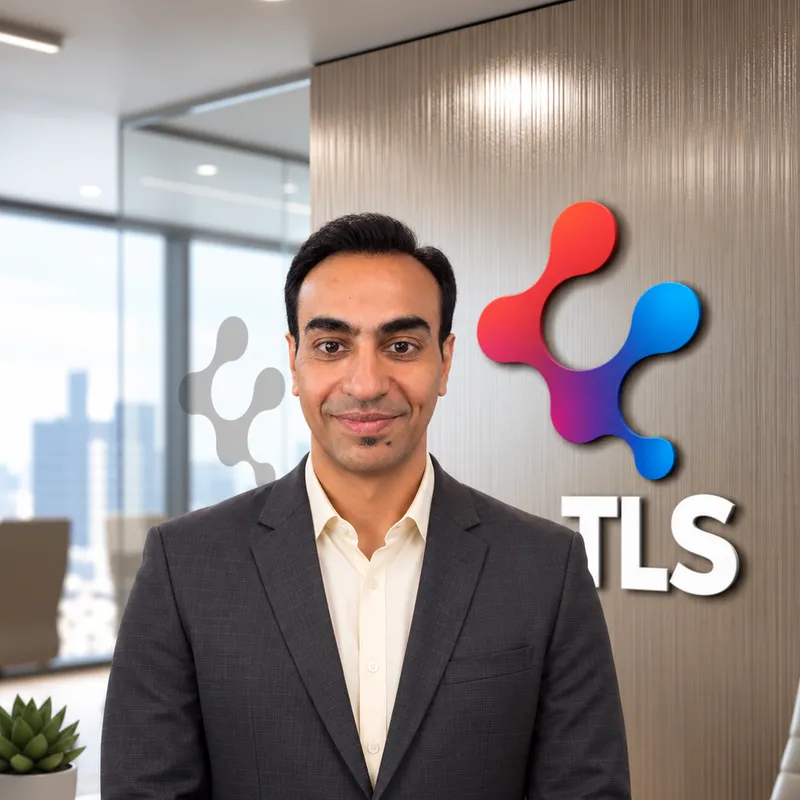
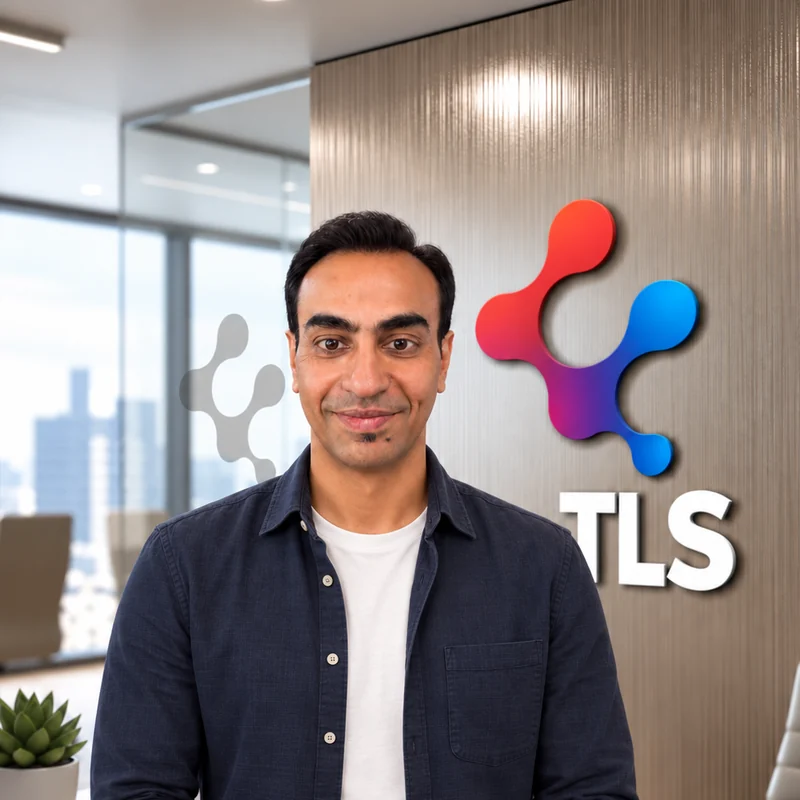
About: Saurabh Kumar's new office portrait (casual)
Cropped to the shared eye line and head size.

diff --git a/src/data/team.ts b/src/data/team.ts
@@ -96,8 +96,9 @@ export const advisors: Person[] = [
     photo: '/team/ketul-thakker.webp',
     linkedin: 'https://www.linkedin.com/in/ketul-thakker-k-504b2824/',
   },
-  // Hemang (2026-10-15, in chat): copy verbatim; office portrait cropped to
-  // the shared eye line.
+  // Hemang (2026-10-15, in chat): copy verbatim. Photo replaced 2026-10-29
+  // (Hemang, in chat): the office portrait in casual dress, cropped to the
+  // shared eye line.
   {
     name: 'Saurabh Kumar',
     role: 'Technical Advisor — AI Strategy & Deep Tech',
